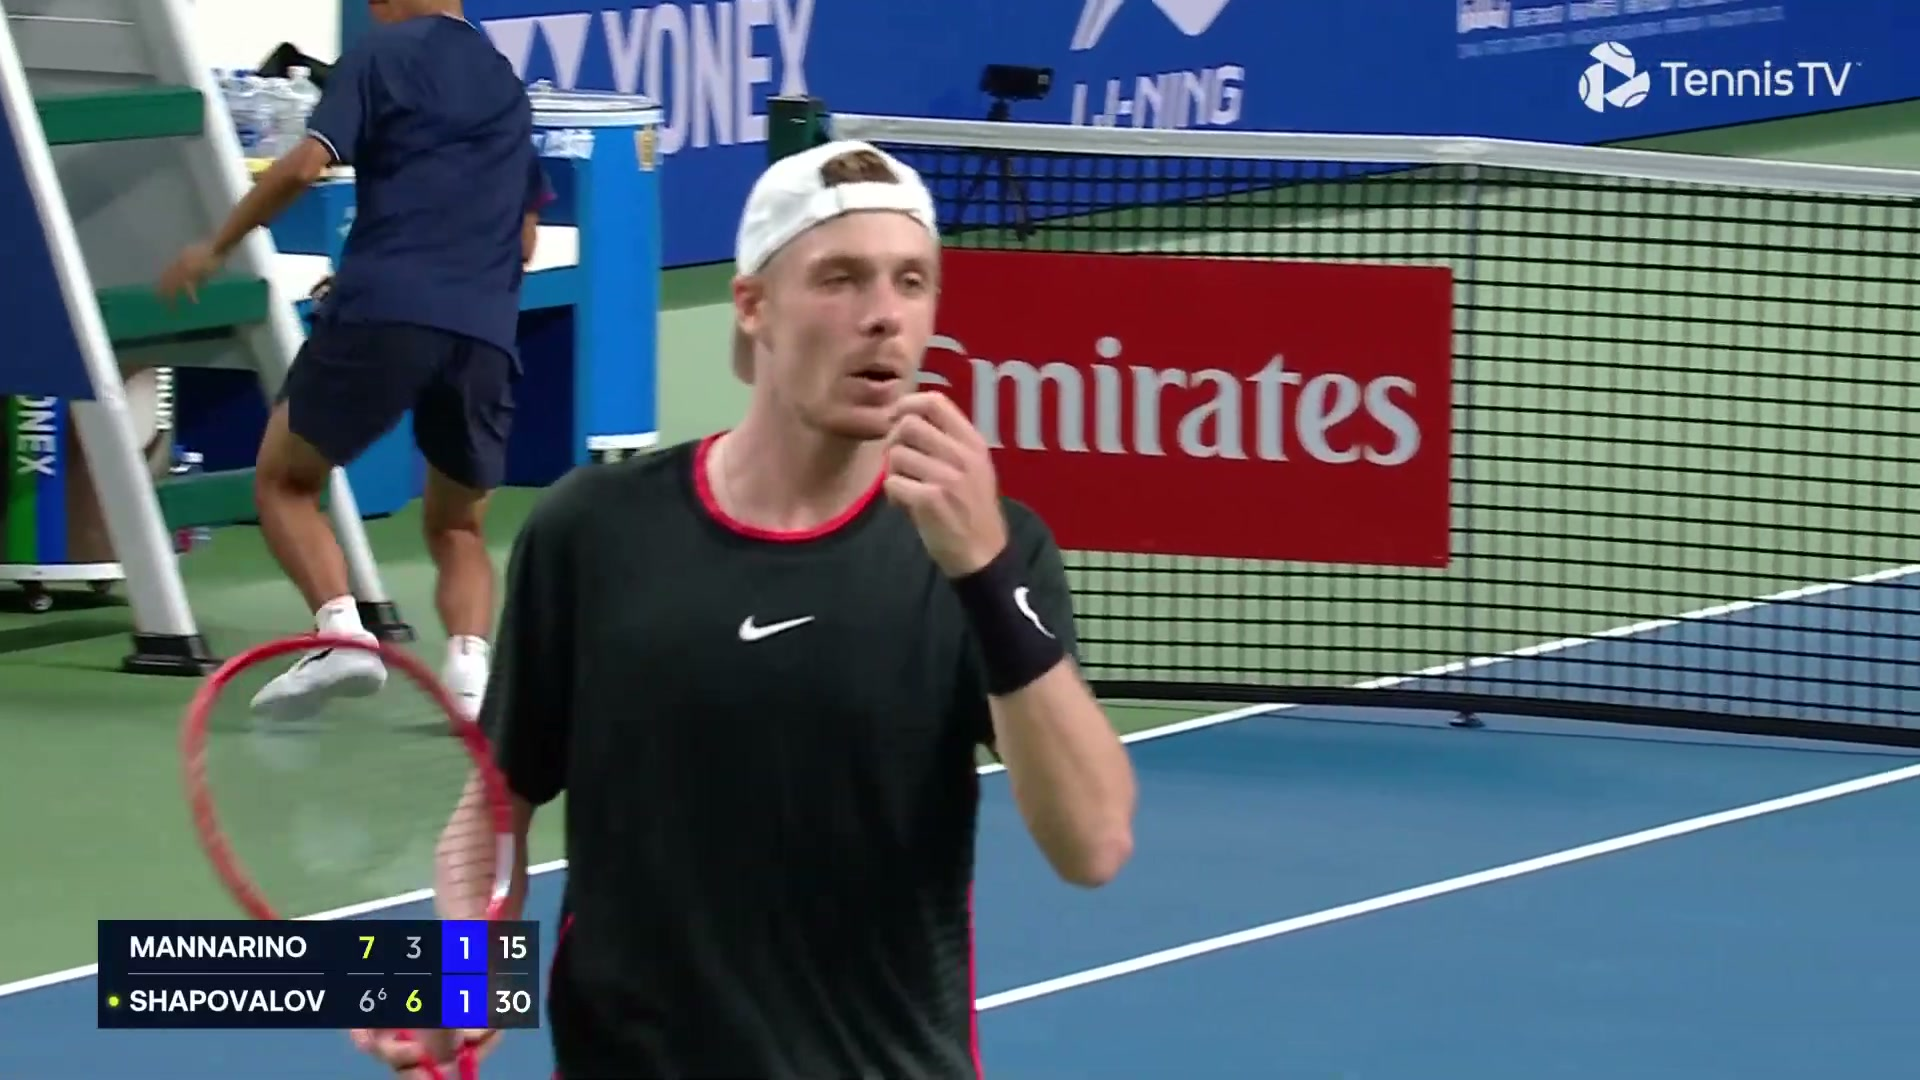
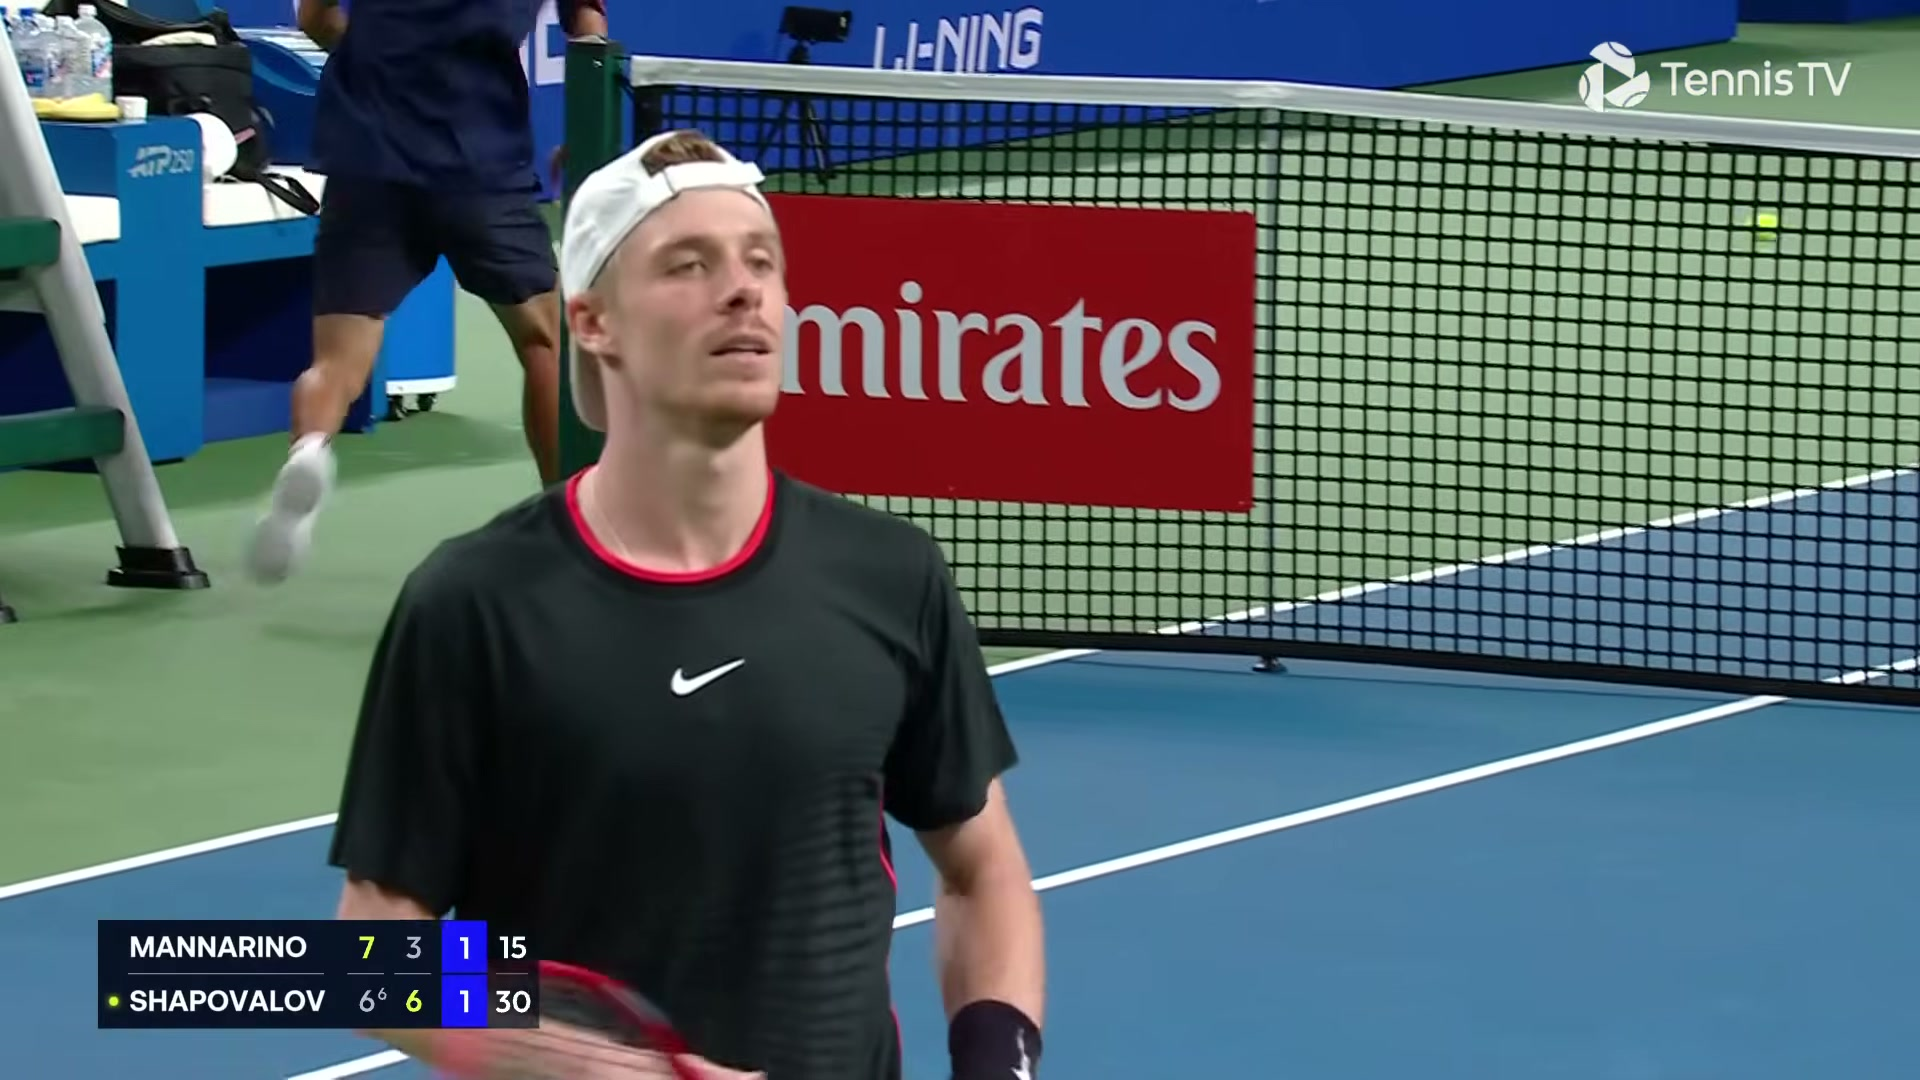
reel: mannarino-shapovalov 封面换 206.0s 正脸帧（205.5 手在嘴边、眼睛半闭），focus 0.30 居中
Claude-Session: https://claude.ai/code/session_01USKX193HDCfSrAeuUFRZMW

diff --git a/tools/build_match_reel.py b/tools/build_match_reel.py
@@ -7156,7 +7156,7 @@ COVER_FILL_W, COVER_FILL_H = 1080, 1440
 #:   逐条问，但照旧要在这里登记一行、在 spec 的 `_frame_why` 写清四类源各查了什么。
 #: - `mannarino-shapovalov-chengdu-2026-qf`：2026-09-27 成都 ATP250 1/4决赛（北京 19:11
 #:   打完）。按上面那条常设授权走：终场后约 40 分钟，find_cover_photo 查 AP、WTA
-#:   photo-resources 都是 0，赛后稿和组委会图都还没有。用 205.5s 正脸吼出来的近景，
+#:   photo-resources 都是 0，赛后稿和组委会图都还没有。用 206.0s 正脸、双眼睁着的近景，
 #:   源片 1920×1080，放大 1.6 倍。
 OWNER_APPROVED_FRAME_COVERS = frozenset({
     "wu-duckworth-us-open-2026-r2",
